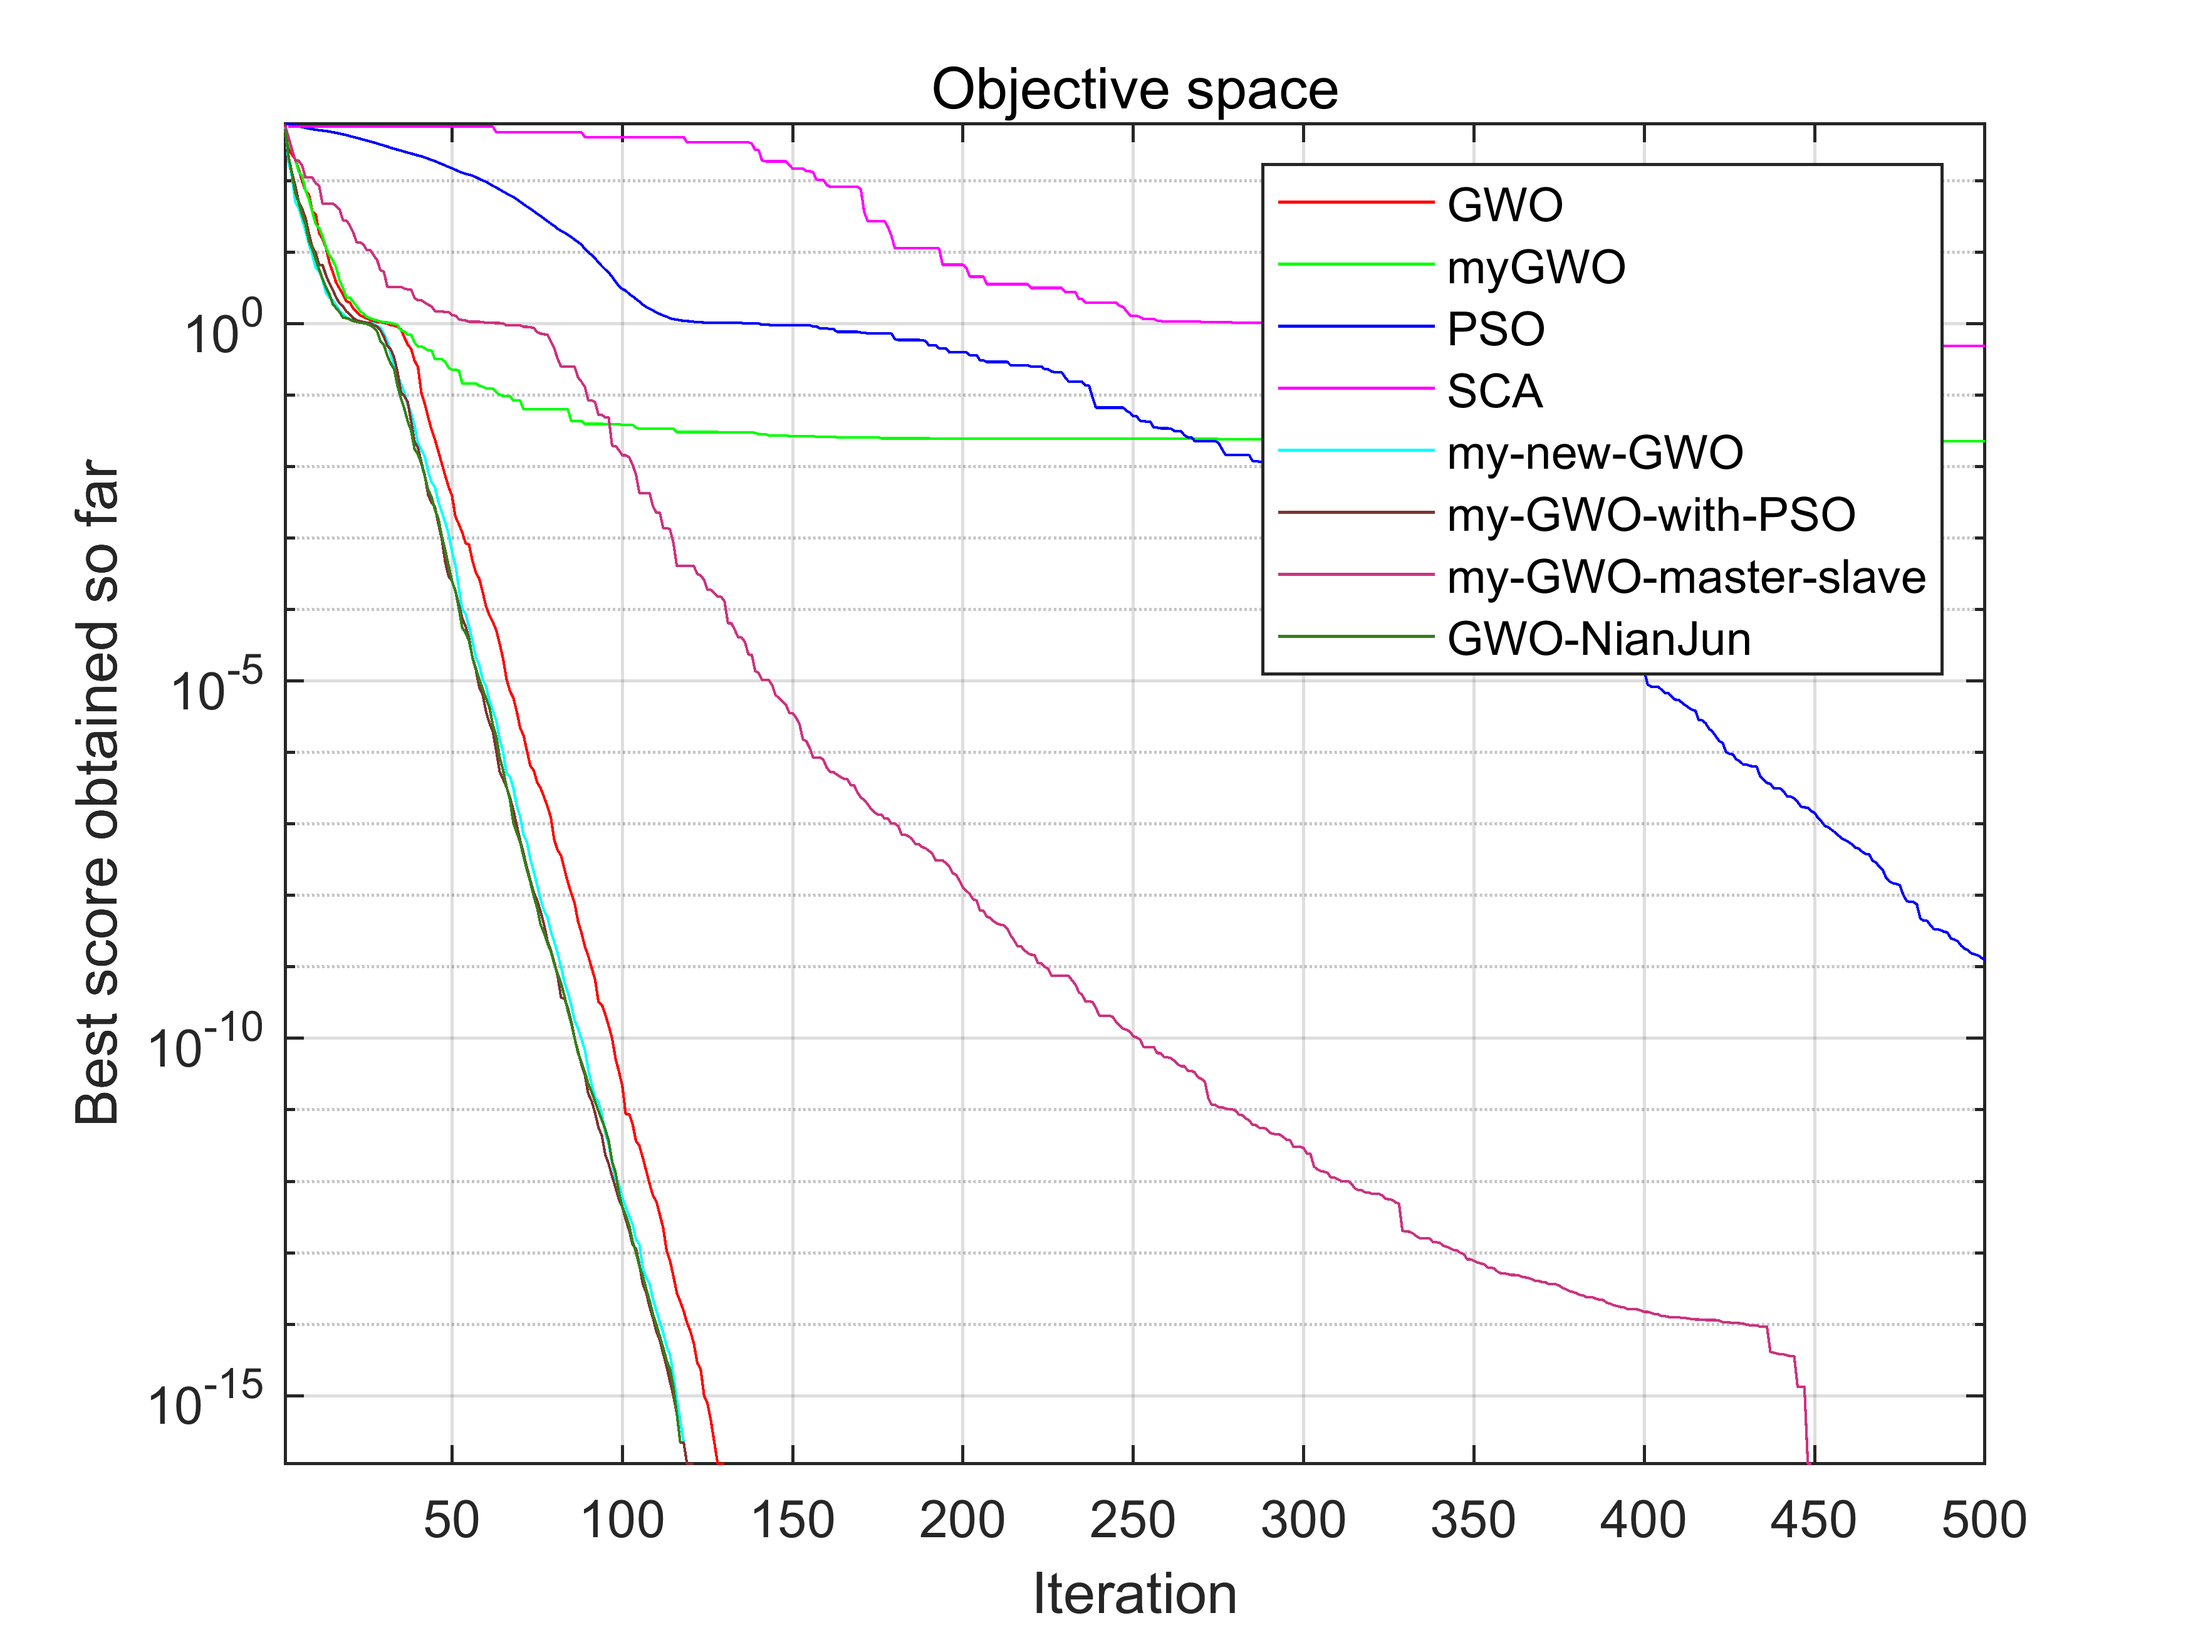
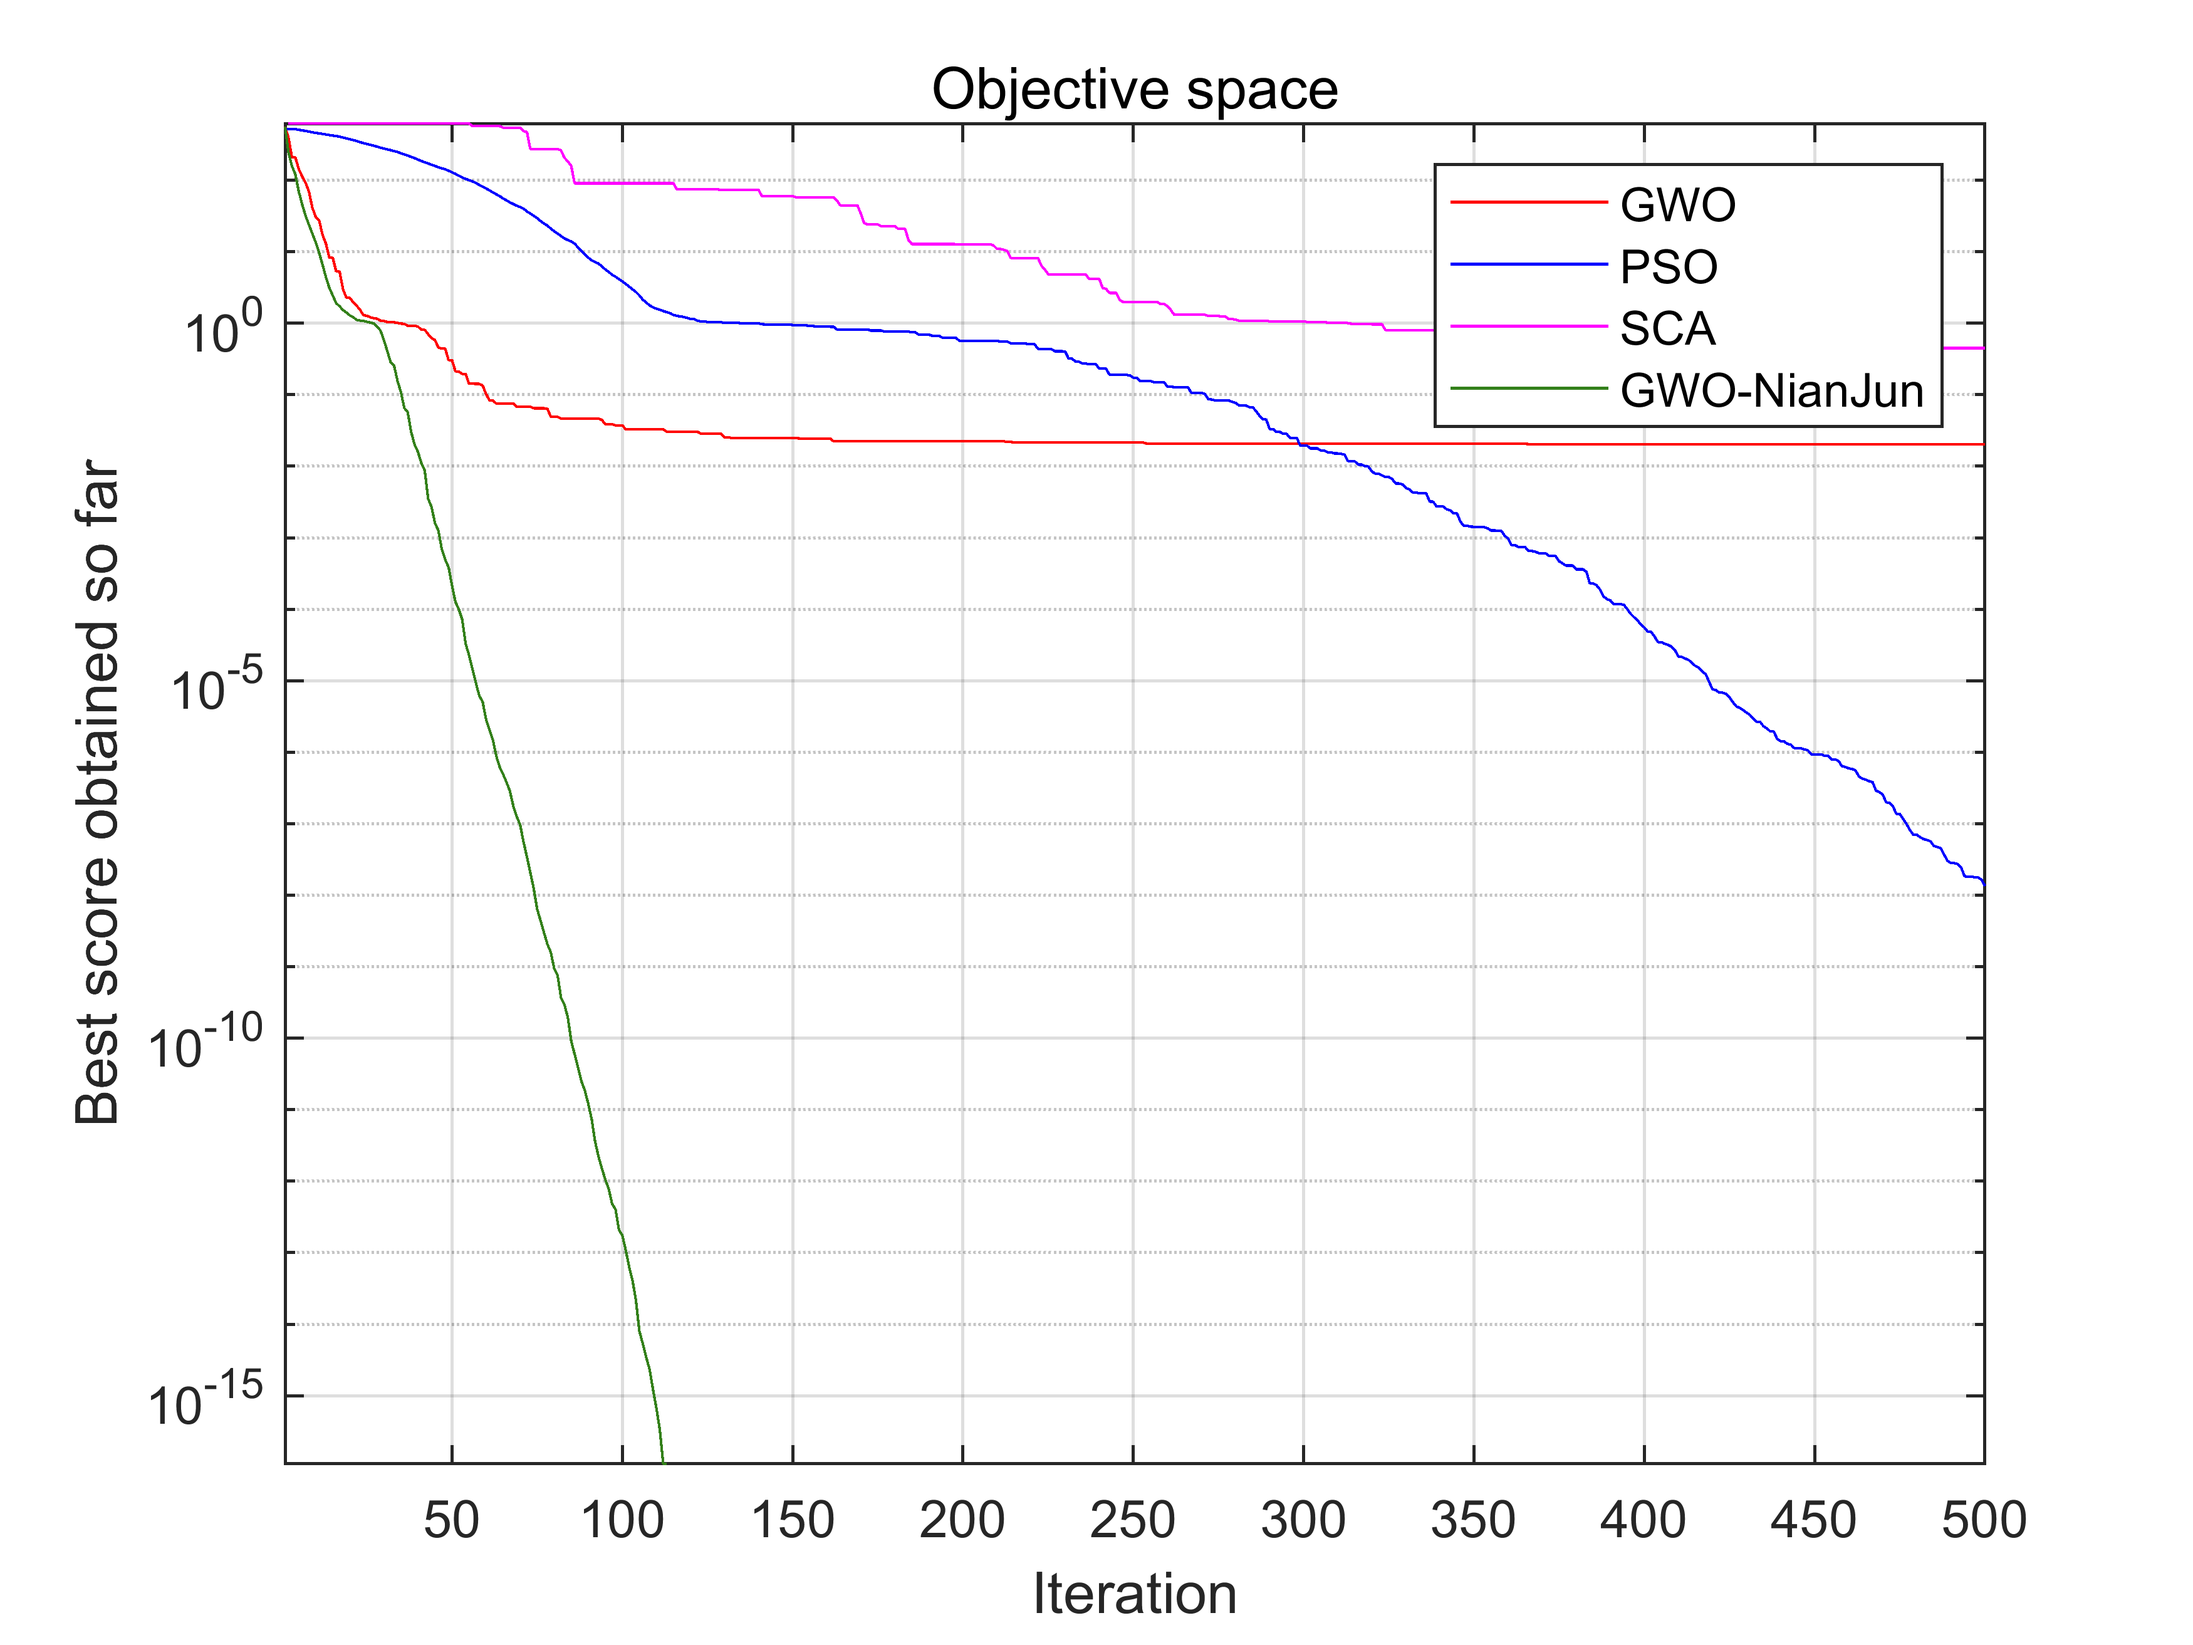
黏菌效果提升！

diff --git a/GWO_original/main.m b/GWO_original/main.m
@@ -69,14 +69,14 @@ for kw = 1:22
     %subplot(1,2,2);
     semilogy(GWO_cg_curve,'Color','r')
     hold on
-    semilogy(my_GWO_cg_curve, 'Color', 'g');
+    %semilogy(my_GWO_cg_curve, 'Color', 'g');
     semilogy(PSO_cg_curve, 'Color', 'b');
     semilogy(cg_curve_SCA, 'Color', 'magenta')
     %semilogy(my_GWO_cg_curve2, 'Color', 'black');
-    semilogy(my_GWO_cg_curve3, 'Color', 'cyan');
+    %semilogy(my_GWO_cg_curve3, 'Color', 'cyan');
     %semilogy(my_GWO_cg_curve4, 'Color', 'yellow');
-    semilogy(my_GWO_cg_curve5, 'Color', [0.5 0.2 0.2]);
-    semilogy(my_GWO_cg_curve6, 'Color', [0.8 0.2 0.5]);
+    %semilogy(my_GWO_cg_curve5, 'Color', [0.5 0.2 0.2]);
+    %semilogy(my_GWO_cg_curve6, 'Color', [0.8 0.2 0.5]);
     semilogy(my_GWO_cg_curve7, 'Color', [0.2 0.5 0.1]);
     title('Objective space')
     xlabel('Iteration');
@@ -86,7 +86,7 @@ for kw = 1:22
     grid on
     box on
     %legend('GWO', 'myGWO', 'PSO', 'SCA', 'best-GWO', 'my-new-GWO', 'best-GWO-temp', 'my_GWO_with_PSO');
-    legend('GWO', 'myGWO', 'PSO', 'SCA', 'my-new-GWO', 'my-GWO-with-PSO', 'my-GWO-master-slave', 'GWO-NianJun');
+    legend('GWO', 'PSO', 'SCA', 'GWO-NianJun');
     asdas = num2str(kw);
     disp(asdas)
     file_name = strcat('C:\Users\28898\OneDrive\Documents\MATLAB\GWO_original\all_fun\', num2str(kw), '.png');

diff --git a/GWO_original/GWO_NianJun.m b/GWO_original/GWO_NianJun.m
@@ -89,8 +89,10 @@ while l<Max_iter
     old_position = Positions;
     accept=0;
     reject=0;
+    llb = 0.2*(Max_iter - l)/Max_iter;
+    uub = 1-llb;
     for i = 1:SearchAgents_no % position to be changed
-        for w = 1:SearchAgents_no/10 % neighbor selected
+        for w = 1:round(SearchAgents_no/30) % neighbor selected
             j = randi([1,SearchAgents_no]);
             diff = old_position(i,:) - old_position(j,:);
             i_score = fobj(old_position(i,:));
@@ -98,9 +100,9 @@ while l<Max_iter
             trust_score = abs(i_score - j_score) / (norm(diff,2)+0.01);
             %disp(trust_score);
             if (i_score - j_score > 0)
-                Positions(i,:) = Positions(i,:) - rand() * (0.6 * (1 - exp(-trust_score/10)) + 0.2) * diff;
+                Positions(i,:) = Positions(i,:) - (uub * (1 - exp(-trust_score/10)) + llb) * diff;
             else
-                Positions(i,:) = Positions(i,:) + rand() * (0.6 * (1 - exp(-trust_score/10)) + 0.2) * diff;
+                Positions(i,:) = Positions(i,:) + (uub * (1 - exp(-trust_score/10)) + llb) * diff;
             end
         end
         for j = 1:dim % prevent error solution
